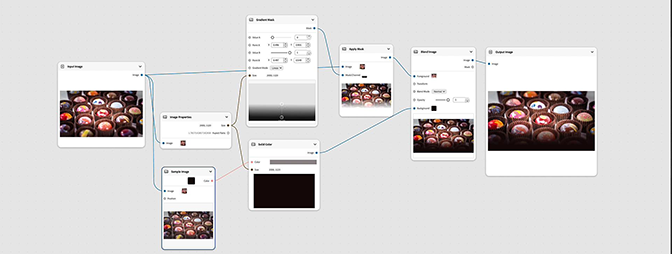
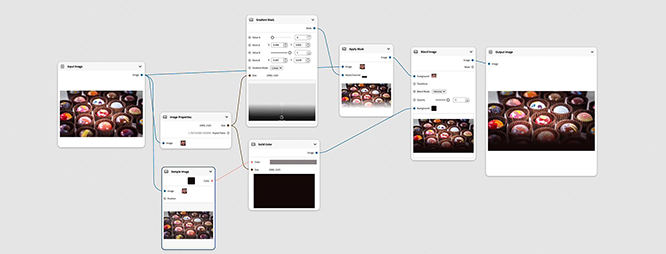
Created cards for landing page

diff --git a/help/firefly/graph/overview-firefly-graph.md b/help/firefly/graph/overview-firefly-graph.md
@@ -16,74 +16,122 @@ If you've used a generative AI tool before, you're probably used to typing a pro
 >
 >Think of it like a recipe instead of a single meal. Once you've built a graph, you can hand it off, rerun it on new inputs, or change one step and let everything downstream update automatically.
 
-<table style="table-layout:fixed">
-<tr>
- <td>
-   <a href="what-is-firefly-graph.md">
-      <img alt="Makeup jar" src="../assets/graph-1.png" />
-   </a>
-    <div>
-   <a href="what-is-firefly-graph.md"><strong>1. What is Firefly Graph?</strong></a>
+<!-- START CARDS HTML - DO NOT MODIFY BY HAND -->
+<div class="columns">
+    <div class="column is-half-tablet is-half-desktop is-one-third-widescreen" aria-label="1. What is Firefly Graph?">
+        <div class="card" style="height: 100%; display: flex; flex-direction: column; height: 100%;">
+            <div class="card-image">
+                <figure class="image x-is-16by9">
+                    <a href="https://experienceleague.adobe.com/en/docs/creative-cloud-enterprise-learn/cce-learning-hub/fireflyoverview/firefly-graph/what-is-firefly-graph" title="1. What is Firefly Graph?" target="_blank" rel="referrer">
+                        <img class="is-bordered-r-small" src="https://experienceleague.adobe.com/en/docs/creative-cloud-enterprise-learn/cce-learning-hub/fireflyoverview/firefly-graph/what-is-firefly-graph./media_1e4b47165b24a2520374b63071fd64c083a0fbeee.png?width=400&format=png&optimize=medium" alt="1. What is Firefly Graph?"
+                             style="width: 100%; aspect-ratio: 16 / 9; object-fit: cover; overflow: hidden; display: block; margin: auto;">
+                    </a>
+                </figure>
+            </div>
+            <div class="card-content is-padded-small" style="display: flex; flex-direction: column; flex-grow: 1; justify-content: space-between;">
+                <div class="top-card-content">
+                    <p class="headline is-size-6 has-text-weight-bold">
+                        <a href="https://experienceleague.adobe.com/en/docs/creative-cloud-enterprise-learn/cce-learning-hub/fireflyoverview/firefly-graph/what-is-firefly-graph" target="_blank" rel="referrer" title="1. What is Firefly Graph?">1. What is Firefly Graph?</a>
+                    </p>
+                    <p class="is-size-6">Learn what Firefly Graph is and how it compares to a single prompt</p>
+                </div>
+                <a href="https://experienceleague.adobe.com/en/docs/creative-cloud-enterprise-learn/cce-learning-hub/fireflyoverview/firefly-graph/what-is-firefly-graph" target="_blank" rel="referrer" class="spectrum-Button spectrum-Button--outline spectrum-Button--primary spectrum-Button--sizeM" style="align-self: flex-start; margin-top: 1rem;">
+                    <span class="spectrum-Button-label has-no-wrap has-text-weight-bold">Read</span>
+                </a>
+            </div>
+        </div>
     </div>
-    <em>Learn what Firefly Graph is and how it compares to a single prompt</em>
-    <br>
-  </td>
-  <td>
-   <a href="key-concepts.md">
-      <img alt="Makeup jar with background" src="../assets/graph-2.png" />
-   </a>
-    <div>
-   <a href="key-concepts.md"><strong>2. Key concepts</strong></a>
+    <div class="column is-half-tablet is-half-desktop is-one-third-widescreen" aria-label="2. Firefly Graph key concepts">
+        <div class="card" style="height: 100%; display: flex; flex-direction: column; height: 100%;">
+            <div class="card-image">
+                <figure class="image x-is-16by9">
+                    <a href="https://experienceleague.adobe.com/en/docs/creative-cloud-enterprise-learn/cce-learning-hub/fireflyoverview/firefly-graph/key-concepts" title="2. Firefly Graph key concepts" target="_blank" rel="referrer">
+                        <img class="is-bordered-r-small" src="https://experienceleague.adobe.com/en/docs/creative-cloud-enterprise-learn/cce-learning-hub/fireflyoverview/firefly-graph/key-concepts./media_1fc8692f32b84c93c75c094fb15d096fbdd023c5c.png?width=400&format=png&optimize=medium" alt="2. Firefly Graph key concepts"
+                             style="width: 100%; aspect-ratio: 16 / 9; object-fit: cover; overflow: hidden; display: block; margin: auto;">
+                    </a>
+                </figure>
+            </div>
+            <div class="card-content is-padded-small" style="display: flex; flex-direction: column; flex-grow: 1; justify-content: space-between;">
+                <div class="top-card-content">
+                    <p class="headline is-size-6 has-text-weight-bold">
+                        <a href="https://experienceleague.adobe.com/en/docs/creative-cloud-enterprise-learn/cce-learning-hub/fireflyoverview/firefly-graph/key-concepts" target="_blank" rel="referrer" title="2. Firefly Graph key concepts">2. Firefly Graph key concepts</a>
+                    </p>
+                    <p class="is-size-6">Learn about the key concepts to help you get started with Firefly Graph</p>
+                </div>
+                <a href="https://experienceleague.adobe.com/en/docs/creative-cloud-enterprise-learn/cce-learning-hub/fireflyoverview/firefly-graph/key-concepts" target="_blank" rel="referrer" class="spectrum-Button spectrum-Button--outline spectrum-Button--primary spectrum-Button--sizeM" style="align-self: flex-start; margin-top: 1rem;">
+                    <span class="spectrum-Button-label has-no-wrap has-text-weight-bold">Read</span>
+                </a>
+            </div>
+        </div>
     </div>
-    <em>Learn about nodes, connections, and templates</em>
-    <br>
-  </td>
-  <td>
-   <a href="create-your-first-graph.md">
-      <img alt="Makeup jar new background" src="../assets/graph-3.png" />
-   </a>
-    <div>
-   <a href="create-your-first-graph.md"><strong>3. Create your first graph</strong></a>
+    <div class="column is-half-tablet is-half-desktop is-one-third-widescreen" aria-label="3. Create your first graph">
+        <div class="card" style="height: 100%; display: flex; flex-direction: column; height: 100%;">
+            <div class="card-image">
+                <figure class="image x-is-16by9">
+                    <a href="https://experienceleague.adobe.com/en/docs/creative-cloud-enterprise-learn/cce-learning-hub/fireflyoverview/firefly-graph/create-your-first-graph" title="3. Create your first graph" target="_blank" rel="referrer">
+                        <img class="is-bordered-r-small" src="https://video.tv.adobe.com/v/3495912?quality=12&hidetitle=true&format=jpeg&nocache=1784039110238" alt="3. Create your first graph"
+                             style="width: 100%; aspect-ratio: 16 / 9; object-fit: cover; overflow: hidden; display: block; margin: auto;">
+                    </a>
+                </figure>
+            </div>
+            <div class="card-content is-padded-small" style="display: flex; flex-direction: column; flex-grow: 1; justify-content: space-between;">
+                <div class="top-card-content">
+                    <p class="headline is-size-6 has-text-weight-bold">
+                        <a href="https://experienceleague.adobe.com/en/docs/creative-cloud-enterprise-learn/cce-learning-hub/fireflyoverview/firefly-graph/create-your-first-graph" target="_blank" rel="referrer" title="3. Create your first graph">3. Create your first graph</a>
+                    </p>
+                    <p class="is-size-6">A walkthrough from canvas to export</p>
+                </div>
+                <a href="https://experienceleague.adobe.com/en/docs/creative-cloud-enterprise-learn/cce-learning-hub/fireflyoverview/firefly-graph/create-your-first-graph" target="_blank" rel="referrer" class="spectrum-Button spectrum-Button--outline spectrum-Button--primary spectrum-Button--sizeM" style="align-self: flex-start; margin-top: 1rem;">
+                    <span class="spectrum-Button-label has-no-wrap has-text-weight-bold">Watch</span>
+                </a>
+            </div>
+        </div>
     </div>
-    <em>A walkthrough from canvas to export</em>
-    <br>
-  </td>
-  <td>
-   <a href="customize-template.md">
-      <img alt="Makeup jar differenct background" src="../assets/graph-4.png" />
-   </a>
-    <div>
-   <a href="customize-template.md"><strong>4. Customize a template</strong></a>
+    <div class="column is-half-tablet is-half-desktop is-one-third-widescreen" aria-label="4. Customize a template">
+        <div class="card" style="height: 100%; display: flex; flex-direction: column; height: 100%;">
+            <div class="card-image">
+                <figure class="image x-is-16by9">
+                    <a href="https://experienceleague.adobe.com/en/docs/creative-cloud-enterprise-learn/cce-learning-hub/fireflyoverview/firefly-graph/customize-template" title="4. Customize a template" target="_blank" rel="referrer">
+                        <img class="is-bordered-r-small" src="https://cdn.experienceleague.adobe.com/thumb/exl-cards/tutorial || 'default'}.png" alt="4. Customize a template"
+                             style="width: 100%; aspect-ratio: 16 / 9; object-fit: cover; overflow: hidden; display: block; margin: auto;">
+                    </a>
+                </figure>
+            </div>
+            <div class="card-content is-padded-small" style="display: flex; flex-direction: column; flex-grow: 1; justify-content: space-between;">
+                <div class="top-card-content">
+                    <p class="headline is-size-6 has-text-weight-bold">
+                        <a href="https://experienceleague.adobe.com/en/docs/creative-cloud-enterprise-learn/cce-learning-hub/fireflyoverview/firefly-graph/customize-template" target="_blank" rel="referrer" title="4. Customize a template">4. Customize a template</a>
+                    </p>
+                    <p class="is-size-6">Make a template reflect your own starting idea</p>
+                </div>
+                <a href="https://experienceleague.adobe.com/en/docs/creative-cloud-enterprise-learn/cce-learning-hub/fireflyoverview/firefly-graph/customize-template" target="_blank" rel="referrer" class="spectrum-Button spectrum-Button--outline spectrum-Button--primary spectrum-Button--sizeM" style="align-self: flex-start; margin-top: 1rem;">
+                    <span class="spectrum-Button-label has-no-wrap has-text-weight-bold">Read</span>
+                </a>
+            </div>
+        </div>
     </div>
-    <em>Make a template reflect your own starting idea</em>
-    <br>
-  </td>
-</tr>
-<tr>
-  <td>
-   <a href="introducing-graph.md">
-      <img alt="Box of chocolates" src="../assets/graph-introducing.png" />
-   </a>
-    <div>
-   <a href="introducing-graph.md"><strong>Introducing Firefly Graph webinar</strong></a>
+    <div class="column is-half-tablet is-half-desktop is-one-third-widescreen" aria-label="Introducing Firefly Graph">
+        <div class="card" style="height: 100%; display: flex; flex-direction: column; height: 100%;">
+            <div class="card-image">
+                <figure class="image x-is-16by9">
+                    <a href="https://experienceleague.adobe.com/en/docs/creative-cloud-enterprise-learn/cce-learning-hub/fireflyoverview/firefly-graph/introducing-graph" title="Introducing Firefly Graph" target="_blank" rel="referrer">
+                        <img class="is-bordered-r-small" src="https://video.tv.adobe.com/v/3492621?quality=12&hidetitle=true&format=jpeg&nocache=1784039110453" alt="Introducing Firefly Graph"
+                             style="width: 100%; aspect-ratio: 16 / 9; object-fit: cover; overflow: hidden; display: block; margin: auto;">
+                    </a>
+                </figure>
+            </div>
+            <div class="card-content is-padded-small" style="display: flex; flex-direction: column; flex-grow: 1; justify-content: space-between;">
+                <div class="top-card-content">
+                    <p class="headline is-size-6 has-text-weight-bold">
+                        <a href="https://experienceleague.adobe.com/en/docs/creative-cloud-enterprise-learn/cce-learning-hub/fireflyoverview/firefly-graph/introducing-graph" target="_blank" rel="referrer" title="Introducing Firefly Graph">Introducing Firefly Graph</a>
+                    </p>
+                    <p class="is-size-6">In this webinar, learn all about Firefly's fully visual workflow system Graph</p>
+                </div>
+                <a href="https://experienceleague.adobe.com/en/docs/creative-cloud-enterprise-learn/cce-learning-hub/fireflyoverview/firefly-graph/introducing-graph" target="_blank" rel="referrer" class="spectrum-Button spectrum-Button--outline spectrum-Button--primary spectrum-Button--sizeM" style="align-self: flex-start; margin-top: 1rem;">
+                    <span class="spectrum-Button-label has-no-wrap has-text-weight-bold">Watch</span>
+                </a>
+            </div>
+        </div>
     </div>
-    <em>In this webinar, learn all about Firefly's fully visual workflow system Graph</em>
-    <br>
-  </td>
-  <td>
-    <img alt="Spacer" src="../../assets/Gray_thumbnail.png" />
-    <div>
-    <br>
-  </td>
-  <td>
-    <img alt="Spacer" src="../../assets/Gray_thumbnail.png" />
-    <div>
-    <br>
-  </td>
-  <td>
-    <img alt="Spacer" src="../../assets/Gray_thumbnail.png" />
-    <div>
-    <br>
-  </td>
-</tr>
-</table>
+</div>
+<!-- END CARDS HTML - DO NOT MODIFY BY HAND -->

diff --git a/help/firefly/graph/key-concepts.md b/help/firefly/graph/key-concepts.md
@@ -1,6 +1,6 @@
 ---
 title: 2. Firefly Graph Key Concepts
-description: The four ideas that cover the Firefly Graph mental model - node, connection, workflow, and template
+description: Learn about the key concepts to help you get started with Firefly Graph
 feature: Image Editing, Gen AI
 role: User
 level: Beginner
@@ -10,9 +10,9 @@ hidefromtoc: true
 ---
 # 2. Firefly Graph key concepts
 
-Four ideas cover the mental model you need to get started with Firefly Graph.
+Learn about the key concepts to help you get started with Firefly Graph.
 
-![Key concepts](../assets/concepts.png)
+![Key concepts](../assets/concepts.png){align="center"}
 
 ## A node
 

diff --git a/help/firefly/graph/what-is-firefly-graph.md b/help/firefly/graph/what-is-firefly-graph.md
@@ -14,7 +14,7 @@ Most generative AI tools give you one output from one prompt. If the brief chang
 
 Firefly Graph works differently. Instead of a single prompt, you build a **graph**: a visual, step-by-step workflow where every input, transformation, and output is captured together. Change one step and rerun it — you don't rebuild the whole chain. Every step is a visible node your team can inspect, adjust, and hand off intact.
 
-![Visual Graph screenshot](../assets/what-is-1.png)
+![Visual Graph screenshot](../assets/what-is-1.png){align="center"}
 
 In short, Graph doesn't replace your creative process — it turns that process into something you can see, reuse, and scale.
 